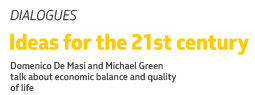
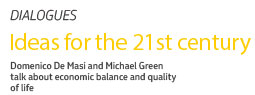
Revert "Indice"
This reverts commit 2f264c1cae5643dae7f20312dceb4c8cc728eca4.

diff --git a/index/css/indice.css b/index/css/indice.css
@@ -73,7 +73,7 @@ margin-top: 50px;
 .dialogo {
 	position: absolute;
 	left: 160px;
-    top: 48px;
+    top: 52px;
 /*	background: url('../imgs/indice/dialoguesArrow.png') no-repeat;background-position: 270px 50px; */
 }
 .allOver {
@@ -83,20 +83,20 @@ margin-top: 50px;
 /*	background: url('../imgs/indice/alloverArrow.png') no-repeat;background-position: 270px 50px; */
 }
 .energyGeek {
-left: -40px;
+left: -35px;
     position: absolute;
     top: 252px;
 /*	background: url('../imgs/indice/energyArrow.png') no-repeat;background-position: 270px 50px; */
 }
 .prisma {
-left: -15px;
+left: -10px;
     position: absolute;
-    top: 393px;
+    top: 390px;
 /*	background: url('../imgs/indice/prismaArrow.png') no-repeat;background-position: 270px 50px; */
 }
 .overTheSeas {
 	position: absolute;
-  left: 90px;
+  left: 95px;
    
     top: 523px;
 /*	background: url('../imgs/indice/overArrow.png') no-repeat;background-position: 270px 50px; */

diff --git a/index/indice.html b/index/indice.html
@@ -207,7 +207,7 @@
 			</div><!-- / End ui-panel-wrapper -->
             
 
-            <div data-role="panel" id="left-panel" data-theme="b"  data-position-fixed="true" class="ui-panel ui-panel-position-left ui-panel-display-reveal ui-panel-closed ui-body-b ui-panel-animate" style="z-index:999;">
+            <div data-role="panel" id="left-panel" data-theme="b"  data-position-fixed="true" class="ui-panel ui-panel-position-left ui-panel-display-reveal ui-panel-closed ui-body-b ui-panel-animate">
 
 				<div class="ui-panel-inner">
 	                <p><a href="../index.html" class="ui-link" rel"external" data-ajax="false">Cover</a></p>
